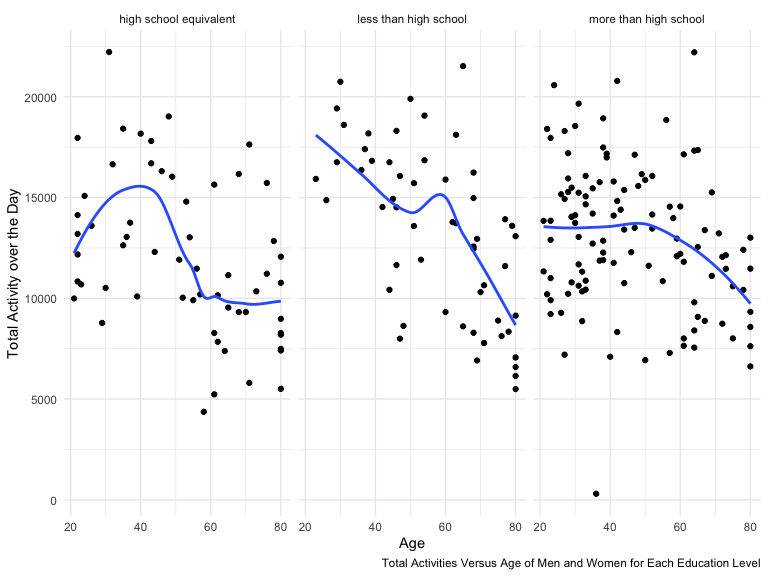
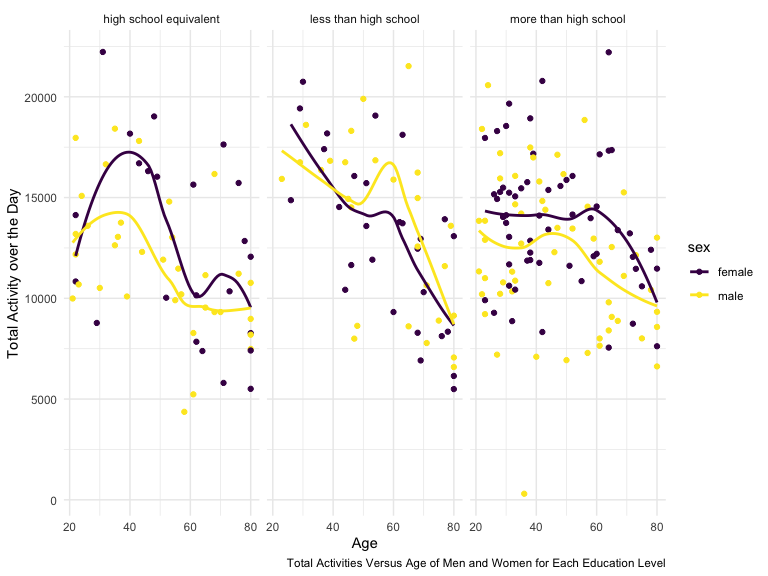
Problem 1 comments added

diff --git a/p8105_hw3_yy3421.md b/p8105_hw3_yy3421.md
@@ -80,6 +80,8 @@ n_item_max |>
 ```
 
 <img src="p8105_hw3_yy3421_files/figure-gfm/unnamed-chunk-4-1.png" width="90%" />
+This point plot shows the number of items ordered in each aisle in an
+ascending order.
 
 ### Question 3:
 
@@ -113,6 +115,10 @@ instacart_aisle |>
     ## 7 dog food care              Snack Sticks Chicken & Rice…        30            1
     ## 8 dog food care              Organix Chicken & Brown Ric…        28            2
     ## 9 dog food care              Small Dog Biscuits                  26            3
+
+The above table table shows the three most popular items in aisles
+`baking ingredients`, `dog food care`, and `packaged vegetables fruits`,
+and the number of times each item is ordered.
 
 ### Question 4:
 
@@ -148,6 +154,11 @@ instacart |>
     ## 5         5               15.2               11.6
     ## 6         6               12.3               12.8
     ## 7         7               13.8               11.9
+
+The last table shows the mean hour of the day at which Pink Lady Apples
+and Coffee Ice Cream are ordered on every single day of the week. Pink
+Lady Apples are generally purchased slightly earlier in the day than
+Coffee Ice Cream, with the exception of day 5.
 
 ## Problem 2
 
@@ -368,7 +379,7 @@ trend line or a smooth to illustrate differences. Comment on your plot.
 nhanes_df |> 
   group_by(seqn, sex, age, education) |> 
   summarize(total_activity = sum(activity_time)) |> 
-  ggplot(aes(x = age, y = total_activity))+
+  ggplot(aes(x = age, y = total_activity, color = sex))+
   geom_point()+
   geom_smooth(se = FALSE)+
   facet_grid(.~ education)+
